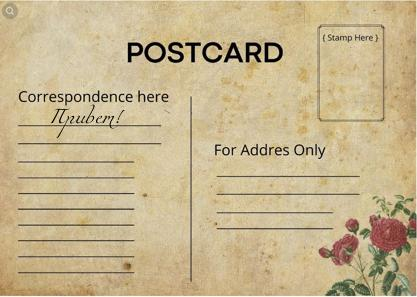
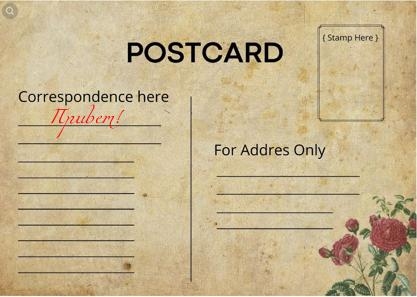
Пример использования библиотек ч. 2.

Changed region(s): [[0.1247, 0.3333, 0.3118, 0.4848]]

diff --git a/lesson_011/worl_09_1.py b/lesson_011/worl_09_1.py
@@ -1,17 +1,50 @@
-from PIL import Image, ImageFont, ImageDraw
+import os.path
+
+from PIL import Image, ImageFont, ImageDraw, ImageColor
 
 
-im = Image.open("postcard.JPG")
-print(im.format, im.size, im.mode)
+# im = Image.open("postcard.JPG")
+# print(im.format, im.size, im.mode)
+#
+# w, h = im.size
+# resized_im = im.resize((w//2, h//2))
+#
+# print(resized_im.format, resized_im.size, resized_im.mode)
+#
+# draw = ImageDraw.Draw(resized_im)
+# font = ImageFont.truetype('miamanueva.ttf', 16)
+#
+# draw.text((50, 110), 'Привет!', font=font, fill=ImageColor.colormap['red'])
+#
+# resized_im.show()
+# resized_im.save('postcard_edit.jpg')
 
-w, h = im.size
-resized_im = im.resize((w//2, h//2))
+class PostCardMaker:
+    def __init__(self, name, template=None, font_path=None):
+        self.name = name
+        self.template = "postcard.jpg" if template is None else template
+        if font_path is None:
+            self.font_path = os.path.join('fonts', 'miamanueva.ttf')
+        else:
+            self.font_path = font_path
 
-print(resized_im.format, resized_im.size, resized_im.mode)
+    def make(self):
+        im = Image.open("postcard.jpg")
 
-draw = ImageDraw.Draw(resized_im)
-font = ImageFont.truetype('miamanueva.ttf', 16)
+        w, h = im.size
+        resized_im = im.resize((w // 2, h // 2))
 
-draw.text((50, 110), 'Привет!', font=font, fill=(0, 0, 0, 0))
+        draw = ImageDraw.Draw(resized_im)
 
-resized_im.save('postcard_edit.jpg')
+        font = ImageFont.truetype(self.font_path, 16)
+
+        message = f'Привет, {self.name}!'
+        draw.text((15, 110), message, font=font, fill=ImageColor.colormap['red'])
+
+        resized_im.show()
+        # resized_im.save('postcard_edit.jpg')
+
+
+if __name__ == '__main__':
+    maker = PostCardMaker(name='Настя')
+    maker.make()
